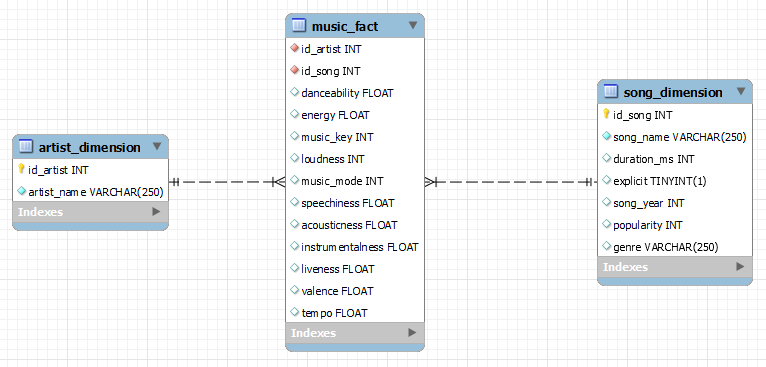
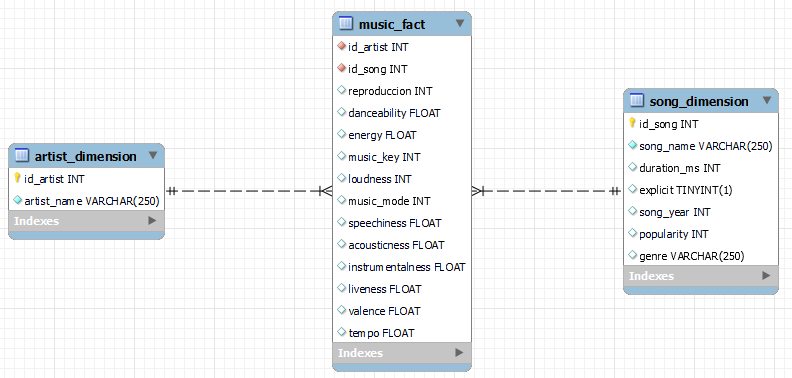
Distribucion de informacion

diff --git a/code/helpers/loadInfo.py b/code/helpers/loadInfo.py
@@ -1,0 +1,79 @@
+from .loggerConfig import logger
+from .database import executeQuery
+import pandas as pd
+
+dist_artist_table = 'INSERT INTO artist_dimension(artist_name)\
+                     SELECT DISTINCT artist FROM temporal\
+                     ORDER BY artist;'
+
+dist_song_table = 'insert into song_dimension(song_name, duration_ms, explicit, song_year, popularity, genre)\
+                   select t_aux.song, t_aux.duration_ms, t_aux.explicit, t_aux.song_year, t_aux.popularity, t_aux.genre\
+                   from\
+                   (\
+                   select distinct artist, upper(song) as song, cast(avg(duration_ms) as signed) as duration_ms, explicit,\
+                   song_year, cast(avg(popularity) as signed) as popularity, genre from temporal\
+                   group by artist, song\
+                   order by song\
+                   ) as t_aux;'
+
+dist_music_table = 'insert into music_fact(id_artist, id_song, reproduccion, danceability, energy, music_key, loudness,\
+                    music_mode, speechiness, acousticness, instrumentalness, liveness, valence, tempo)\
+                    select artD.id_artist, songD.id_song, auxiliar.reproduccion, auxiliar.danceability, auxiliar.energy, auxiliar.music_key, auxiliar.loudness,\
+                    auxiliar.music_mode, auxiliar.speechiness, auxiliar.acousticness, auxiliar.instrumentalness, auxiliar.liveness, auxiliar.valence, auxiliar.tempo\
+                    from\
+                    (\
+                    select artist, upper(song) as song, count(song) as reproduccion,danceability, energy, music_key, loudness, music_mode, speechiness,\
+                    acousticness, instrumentalness, liveness, valence, tempo, song_year, genre\
+                    from temporal\
+                    group by artist, song\
+                    ) as auxiliar\
+                    inner join artist_dimension as artD\
+                    on artD.artist_name = auxiliar.artist\
+                    inner join song_dimension as songD\
+                    on songD.song_name = auxiliar.song and songD.song_year = auxiliar.song_year and songD.genre = auxiliar.genre;'
+
+def dataLoad():
+    try:
+        # READING DATASET INFORMATION
+        logger.info("Comenzando lectura del dataset...")
+        logger.info("Solicitando la ruta del archivo")
+        pathData = input("Ingrese la ruta donde se encuentra los datos a utilizar: ")
+        logger.info("Leyendo el archivo...")
+        dataSet = pd.read_csv(pathData)
+        dataFrame = pd.DataFrame(dataSet)
+        logger.info("Archivo leido con exito")
+        # LOADING INFORMATION TO MODEL
+        logger.info("Comenzando carga del dataset...")
+        loadTemporal(dataFrame)
+        # DATA DISTRIBUTION
+        logger.info("Comenzando distribucion de informacion...")
+        loadTables()
+    except Exception as e:
+        logger.error(e)
+        print("Ocurrio un error")
+
+def loadTemporal(dataFrame):
+    i = 0
+    for row in dataFrame.itertuples():
+        i+= 1
+        # cleaning data artist, replacing " to '
+        artist = str(row[1]).replace("\"", "'")
+        # cleaning data song, replacing " to '
+        song = str(row[2]).replace("\"", "'")
+        # cleaning data genre, replcaing "set()" to "otros"
+        genre = str(row[18])
+        if genre == 'set()':
+            genre = 'otros'
+        executeQuery(f'INSERT INTO temporal VALUES("{artist}", "{song}", {row[3]}, {row[4]}, {row[5]}, {row[6]}, {row[7]}, {row[8]}, {row[9]}, {row[10]}, {row[11]}, {row[12]}, {row[13]}, {row[14]}, {row[15]}, {row[16]}, {row[17]}, "{genre}")', 'insert')
+        logger.info(f'Fila {i} insertada con exito')
+    logger.info("Carga del dataset finalizado")
+    logger.info(f'Se cargaron correctamente {i} filas')
+
+def loadTables():
+    logger.info("Cargando informacion de los artistas...")
+    executeQuery(dist_artist_table, 'insert')
+    logger.info("Cargando informacion de las canciones...")
+    executeQuery(dist_song_table, 'insert')
+    logger.info("Cargando informacion de la musica...")
+    executeQuery(dist_music_table, 'insert')
+    logger.info("Distribucion de informacion finalizada")

diff --git a/code/helpers/modelCreation.py b/code/helpers/modelCreation.py
@@ -70,17 +70,19 @@ def createModel():
         # CREATION OF DATABASE MODEL
         logger.info("Comenzando la creacion del modelo...")
         logger.info("Eliminando tablas existentes del modelo...")
-        executeQuery(drop_tables)
+        executeQuery(drop_tables, 'drop')
         logger.info("Tablas eliminadas con exito")
         logger.info("Creando tabla temporal para los datos...")
-        executeQuery(create_temporal_table)
+        executeQuery(create_temporal_table, 'create')
         logger.info("Tabla temporal creada con exito")
         logger.info("Creando las tablas del modelo...")
-        executeQuery(create_model_tables)
+        executeQuery(create_model_tables, 'create')
         logger.info("Tablas del modelo creadas con exito")
     except Error as e:
         logger.error(e)
+        print("Ocurrio un error")
     except Exception as e:
         logger.error(e)
+        print("Ocurrio un error")
 
 

diff --git a/code/main.py b/code/main.py
@@ -1,6 +1,7 @@
 from helpers.printMenu import *
 from helpers.loggerConfig import logger
 from helpers.modelCreation import createModel
+from helpers.loadInfo import dataLoad
 
 def main():
     while True:
@@ -9,8 +10,11 @@ def main():
         if option == "1":
             logger.info("Se selecciono la opcion 1 (Crear modelo)")
             createModel()
+            print("Creacion del modelo finalizada")
         elif option == "2":
             logger.info("Se selecciono la opcion 2 (Cargar informacion)")
+            dataLoad()
+            print("Carga de informacion finalizada")
         elif option == "3":
             logger.info("Se selecciono la opcion 3 (Realizar consultas)")
         elif option == "4":

diff --git a/code/helpers/database.py b/code/helpers/database.py
@@ -23,9 +23,13 @@ def startConnection():
     return database
 
 # METHOD TO EXECUTE A QUERY WITH A NEW CONNECTION AND CURSOR
-def executeQuery(textQuery):
+def executeQuery(textQuery, type):
         newConnection = startConnection()
         newCursor = newConnection.cursor()
         newCursor.execute(textQuery)
+
+        if type == 'insert':
+            newConnection.commit() # saving query insert
+
         newCursor.close()
         newConnection.close()
